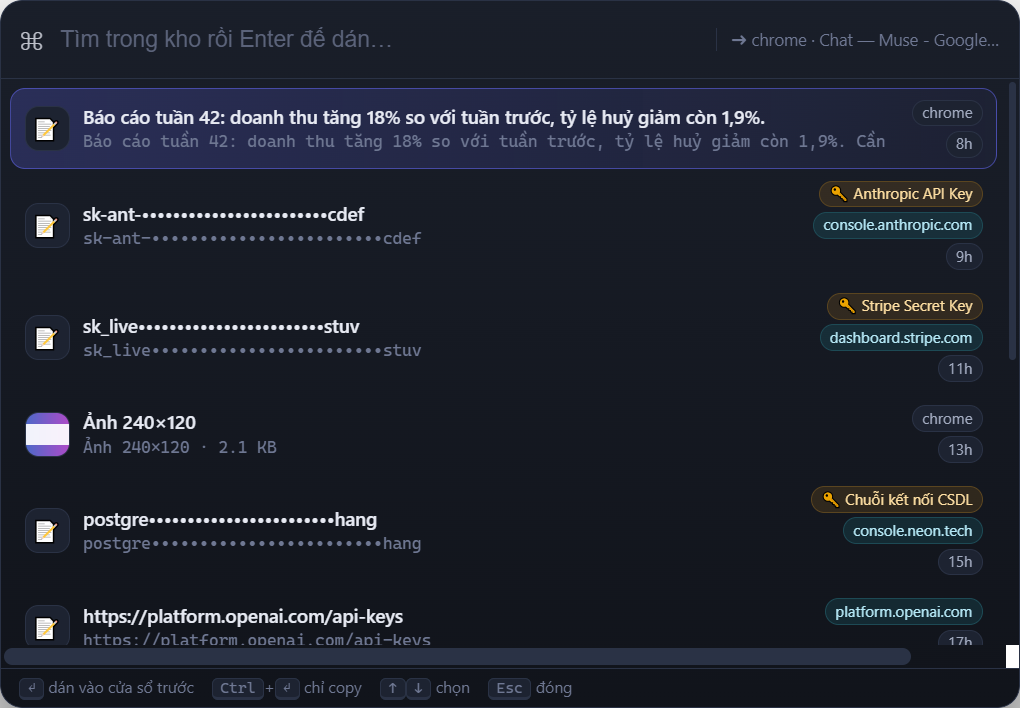
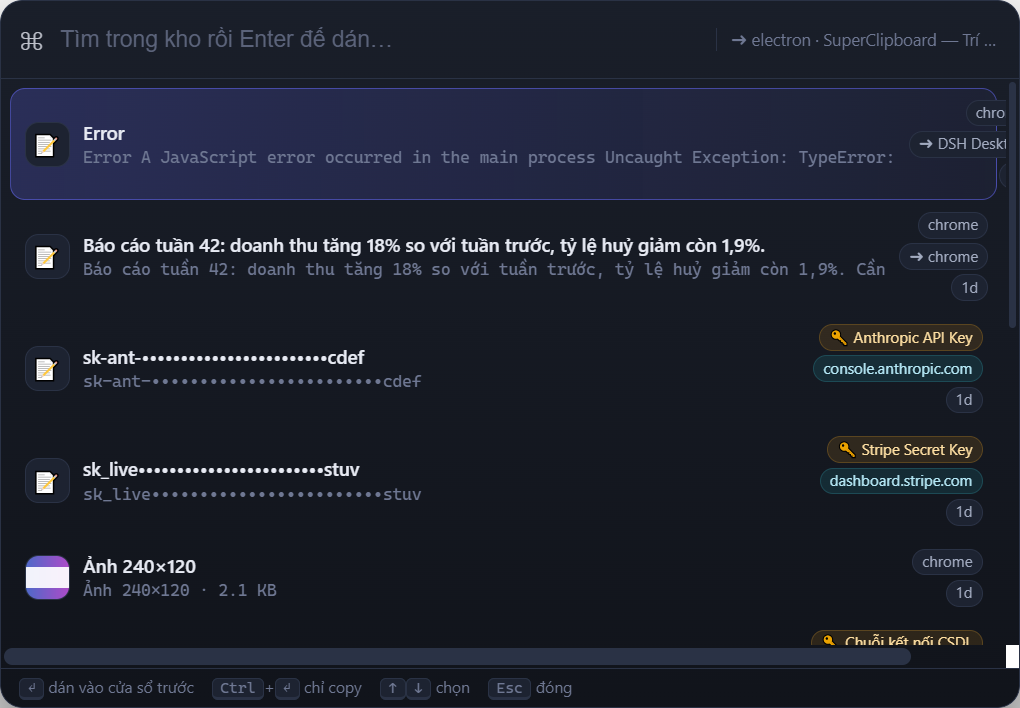
Sửa lỗi "Object has been destroyed" khi mở lại bảng lệnh nhanh sau khi dán
Trang bảng lệnh nhanh gọi window.close() sau khi dán. Cửa sổ bị huỷ thật
(hàm chặn sự kiện close không giữ được nó), nhưng main process vẫn giữ
tham chiếu cũ, nên lần bấm Ctrl+Alt+V kế tiếp gọi loadURL lên xác cửa sổ:

  TypeError: Object has been destroyed
      at BrowserWindow.loadURL
      at openPalette (electron/main.js:175)

Ngoại lệ không được bắt trong handler sự kiện phím tắt nên Electron hiện
hộp thoại "A JavaScript error occurred in the main process".

- createPalette(): handler bám vào biến cục bộ của cửa sổ, thêm sự kiện
  'closed' để quên tham chiếu đã chết
- openPalette(): dựng lại cửa sổ nếu tham chiếu cũ đã bị huỷ
- thêm 2 ca kiểm thử tái hiện đúng lỗi: bấm Ctrl+Alt+V hai lần liên tiếp,
  và dán xong rồi mở lại

diff --git a/electron/main.js b/electron/main.js
@@ -139,7 +139,7 @@ function createMain() {
 function createPalette() {
   const disp = screen.getPrimaryDisplay().workAreaSize;
   const w = 680, h = 470;
-  paletteWindow = new BrowserWindow({
+  const win = new BrowserWindow({
     width: w, height: h,
     x: Math.round((disp.width - w) / 2),
     y: Math.round(disp.height * 0.22),
@@ -148,15 +148,25 @@ function createPalette() {
     backgroundColor: '#00000000',
     webPreferences: { contextIsolation: true, nodeIntegration: false, spellcheck: false },
   });
-  paletteWindow.setAlwaysOnTop(true, 'screen-saver');
-  paletteWindow.on('close', (e) => {
-    if (!quitting) { e.preventDefault(); paletteWindow.hide(); }
+  paletteWindow = win;
+  win.setAlwaysOnTop(true, 'screen-saver');
+  win.webContents.on('console-message', (...args) => {
+    const d = args[1];
+    const level = (d && typeof d === 'object') ? d.level : args[1];
+    const message = (d && typeof d === 'object') ? d.message : args[2];
+    if (level === 'error' || level === 3) consoleErrors.push('palette: ' + String(message));
   });
-  paletteWindow.on('blur', () => { if (paletteWindow.isVisible()) paletteWindow.hide(); });
+  win.webContents.on('render-process-gone', (_e, d) => consoleErrors.push('palette gone: ' + d.reason));
+  // Trang gọi window.close() sau khi dán. Cửa sổ vẫn bị huỷ thật, nên phải quên
+  // tham chiếu cũ đi — giữ lại xác cửa sổ chính là lỗi "Object has been destroyed".
+  win.on('closed', () => { if (paletteWindow === win) paletteWindow = null; });
+  win.on('close', (e) => { if (!quitting) { e.preventDefault(); win.hide(); } });
+  win.on('blur', () => { if (!win.isDestroyed() && win.isVisible()) win.hide(); });
 }
 
 function openPalette() {
   if (!svc) return;
+  if (!paletteWindow || paletteWindow.isDestroyed()) { paletteWindow = null; createPalette(); }
   const t = pickTarget();
   const q = new URLSearchParams();
   if (t && t.hwnd) {
@@ -164,11 +174,9 @@ function openPalette() {
     q.set('proc', String(t.proc || '').replace(/\.exe$/i, ''));
     q.set('title', t.title || '');
   }
-  if (!paletteWindow) createPalette();
   paletteWindow.loadURL(baseUrl + '/palette?' + q.toString());
   paletteWindow.show();
   paletteWindow.focus();
-  paletteWindow.webContents.once('did-finish-load', () => { });
 }
 
 function showMain() {
@@ -416,7 +424,7 @@ async function runSelftest() {
       shot + ' (' + (fs.existsSync(shot) ? fs.statSync(shot).size : 0) + ' bytes)');
 
     // Chụp thêm ảnh bảng lệnh nhanh
-    if (!paletteWindow) createPalette();
+    if (!paletteWindow || paletteWindow.isDestroyed()) { paletteWindow = null; createPalette(); }
     const pt = pickTarget();
     const qs = new URLSearchParams();
     if (pt && pt.hwnd) { qs.set('target', String(pt.hwnd)); qs.set('proc', String(pt.proc || '')); qs.set('title', pt.title || ''); }
@@ -426,6 +434,40 @@ async function runSelftest() {
     const img2 = await paletteWindow.webContents.capturePage();
     fs.writeFileSync(shot2, img2.toPNG());
     check('Đã chụp ảnh bảng lệnh nhanh', fs.existsSync(shot2) && fs.statSync(shot2).size > 5000, shot2);
+
+    // Bấm Ctrl+Alt+V hai lần liên tiếp — cách người dùng thật sự mở bảng lệnh nhanh.
+    // Lần thứ hai tới khi lần thứ nhất còn đang tải, đây từng gây lỗi JavaScript.
+    const rejErrors = [];
+    const onRejection = (r) => rejErrors.push('unhandled: ' + (r && r.message ? r.message : String(r)));
+    process.on('unhandledRejection', onRejection);
+    const consoleBefore = consoleErrors.length;
+    openPalette();
+    openPalette();
+    await sleep(1600);
+    process.off('unhandledRejection', onRejection);
+    const noise = rejErrors.concat(consoleErrors.slice(consoleBefore));
+    check('Bấm Ctrl+Alt+V hai lần liên tiếp không sinh lỗi JavaScript',
+      noise.length === 0, noise.slice(0, 3).join(' | '));
+
+    // Dán một mục rồi bấm Ctrl+Alt+V lần nữa: trang gọi window.close() sau khi dán,
+    // cửa sổ bị huỷ, lần mở sau đó gọi loadURL trên xác cửa sổ và ném
+    // "TypeError: Object has been destroyed" ở main process.
+    if (!paletteWindow || paletteWindow.isDestroyed()) createPalette();
+    paletteWindow.show();
+    await sleep(400);
+    await paletteWindow.webContents.executeJavaScript('window.close()');
+    await sleep(700);
+    const wasDestroyed = !paletteWindow || paletteWindow.isDestroyed();
+    let reopenErr = null;
+    try {
+      openPalette();
+      await sleep(900);
+      const shown = paletteWindow && !paletteWindow.isDestroyed() &&
+        (await paletteWindow.webContents.executeJavaScript('document.querySelectorAll(".row").length'));
+      if (!shown) reopenErr = new Error('mở lại nhưng bảng lệnh nhanh không có nội dung');
+    } catch (e) { reopenErr = e; }
+    check('Dán xong rồi mở lại bảng lệnh nhanh không lỗi',
+      !reopenErr, (reopenErr ? reopenErr.message : 'ok') + (wasDestroyed ? ' [cửa sổ bị huỷ bởi window.close()]' : ''));
   } catch (e) {
     check('Chạy được toàn bộ kịch bản kiểm thử', false, e.message);
   }
